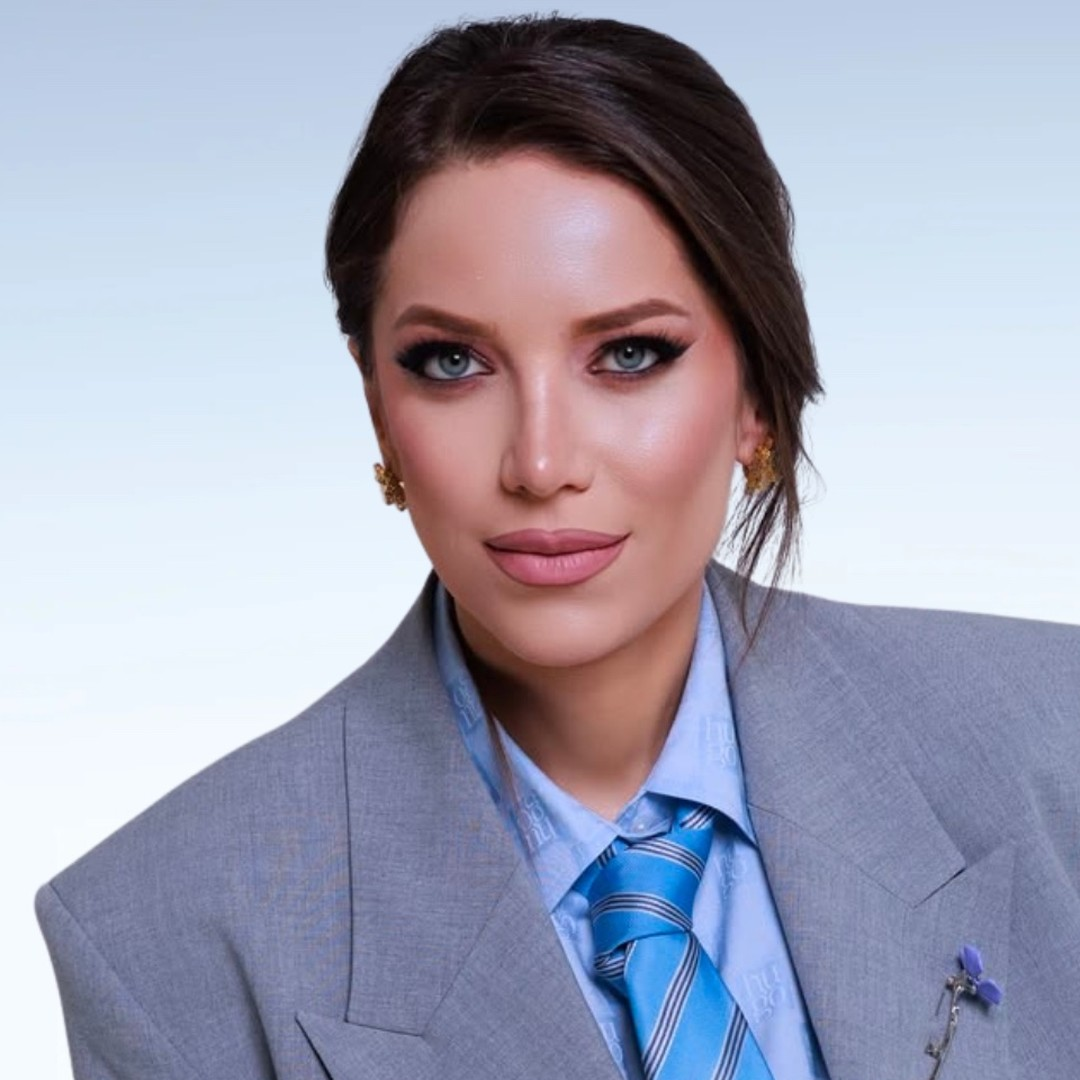
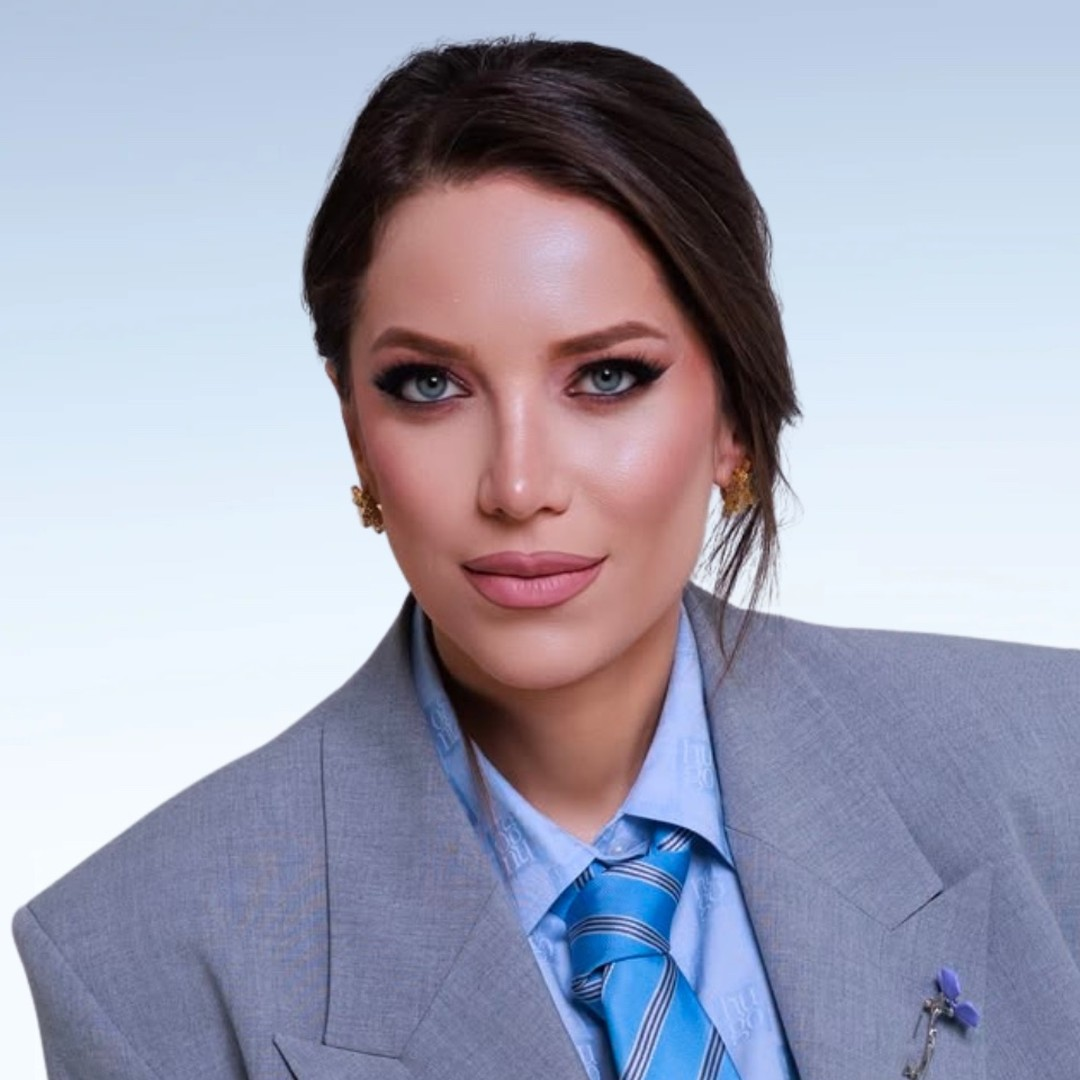
Shift Mary Sarikyan's photo slightly down and left
Claude-Session: https://claude.ai/code/session_01UY2yYSyHezMTLTrkPybDFD

diff --git a/team.html b/team.html
@@ -288,7 +288,7 @@
           <p class="role">Consultant, Teal Organizations</p>
         </div>
         <div class="team-card">
-          <div class="team-photo"><img src="assets/mary-sarikyan.jpg" alt="Mary Sarikyan"></div>
+          <div class="team-photo"><img src="assets/mary-sarikyan.jpg?v=2" alt="Mary Sarikyan"></div>
           <h3>Mary Sarikyan</h3>
           <p class="role">Consultant, Burnout Prevention</p>
         </div>
